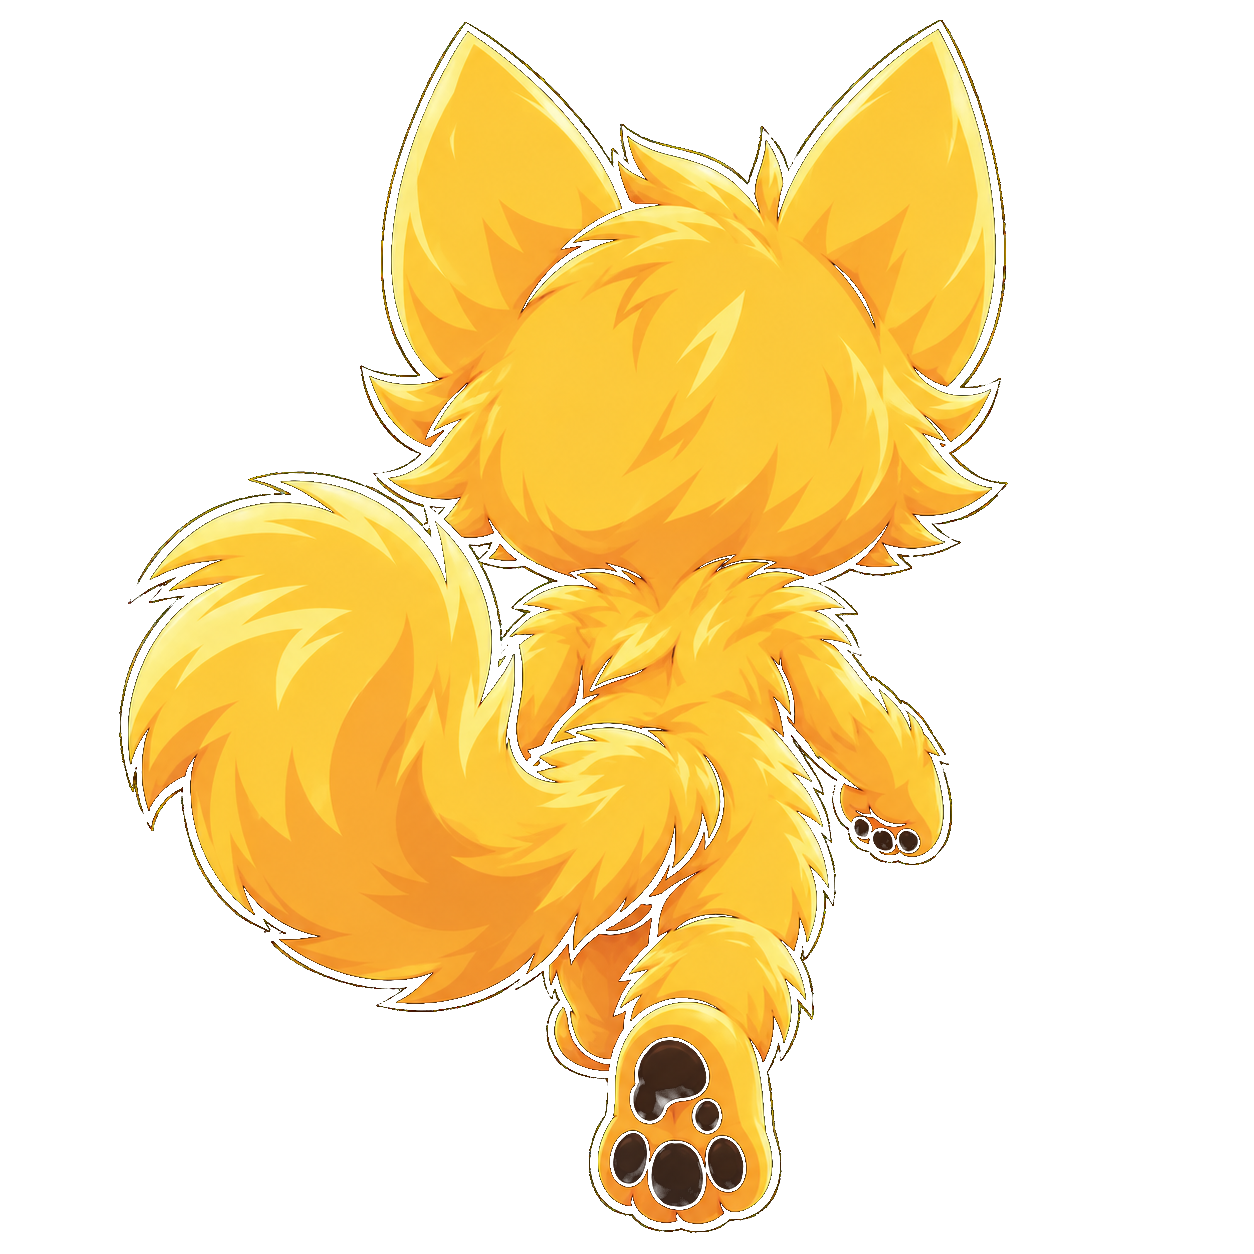
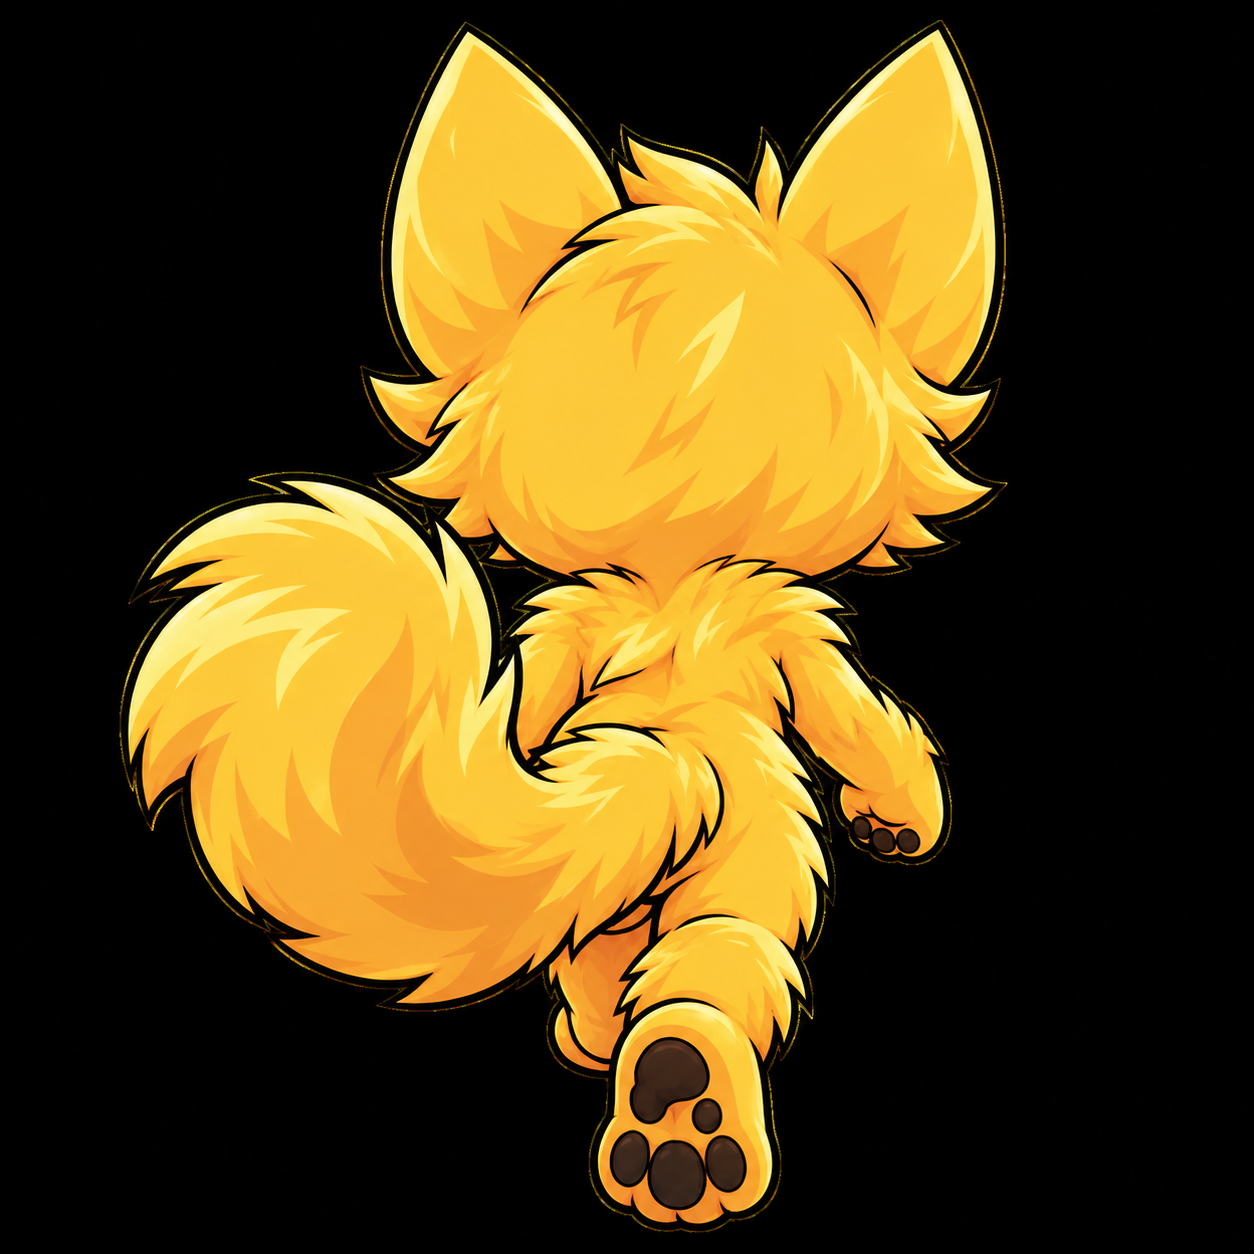
Add files via upload

diff --git a/game.js b/game.js
@@ -1,0 +1,209 @@
+const canvas=document.getElementById('c');
+const ctx=canvas.getContext('2d');
+const world=new Image(), runner=new Image();
+world.src='assets/world.png'; runner.src='assets/runner.png';
+
+let W=430,H=930,dpr=1, raf=0, last=0;
+let state='start', paused=false, t=0, speed=0.44, score=0, coins=0, combo=1;
+const player={lane:1,x:0,targetLane:1,jump:0,vy:0,slide:0,run:0};
+const objects=[];
+const lanes=[0,1,2];
+let spawnClock=0, coinClock=0;
+const keys={};
+
+function resize(){
+  const r=canvas.getBoundingClientRect(); dpr=Math.min(devicePixelRatio||1,2);
+  W=r.width; H=r.height; canvas.width=W*dpr; canvas.height=H*dpr; ctx.setTransform(dpr,0,0,dpr,0,0);
+  player.x=laneX(player.lane,1);
+}
+window.addEventListener('resize',resize);
+
+function laneX(lane,p){
+  // p=0 at horizon, p=1 at player; width expands toward bottom
+  const center=W*.5, spread=W*(.08+.38*p);
+  return center + (lane-1)*spread;
+}
+function roadY(p){ return H*(.43 + .57*p); }
+
+function reset(){
+  state='play'; paused=false; t=0; speed=.44; score=0; coins=0; combo=1;
+  objects.length=0; spawnClock=.2; coinClock=.1;
+  player.lane=1; player.targetLane=1; player.x=laneX(1,1); player.jump=0; player.vy=0; player.slide=0; player.run=0;
+  document.getElementById('start').classList.add('hidden');
+  document.getElementById('gameover').classList.add('hidden');
+}
+function end(){
+  state='over';
+  document.getElementById('finalScore').textContent=Math.floor(score);
+  document.getElementById('finalCoins').textContent=coins;
+  document.getElementById('gameover').classList.remove('hidden');
+}
+function move(dir){ if(state!=='play'||paused)return; player.targetLane=Math.max(0,Math.min(2,player.targetLane+dir)); }
+function jump(){ if(state!=='play'||paused)return; if(player.jump<=0.001 && player.slide<=0){player.vy=-1.25;player.jump=.01;} }
+function slide(){ if(state!=='play'||paused)return; if(player.jump<=0.02){player.slide=.52;} }
+
+function spawn(type,lane,p=-.03){
+  objects.push({type,lane,p,hit:false,spin:Math.random()*6.28});
+}
+function spawnPattern(){
+  const r=Math.random();
+  if(r<.30){ spawn('coin',Math.floor(Math.random()*3)); spawn('coin',Math.floor(Math.random()*3),.09); spawn('coin',Math.floor(Math.random()*3),.17); }
+  else if(r<.52){ spawn('barrier',Math.floor(Math.random()*3)); }
+  else if(r<.72){ let safe=Math.floor(Math.random()*3); for(let l=0;l<3;l++) if(l!==safe) spawn('train',l); }
+  else { let l=Math.floor(Math.random()*3); spawn('barrier',l); spawn('coin',(l+1)%3,.12); spawn('coin',(l+2)%3,.22); }
+}
+function worldToScreen(o){
+  const p=Math.max(0,Math.min(1.08,o.p));
+  return {x:laneX(o.lane,p),y:roadY(p),s:.20+.95*p};
+}
+
+function update(dt){
+  if(state!=='play'||paused)return;
+  t+=dt; speed=Math.min(.78,.44+t*.0042);
+  score+=dt*90*speed*combo;
+  player.run+=dt*12;
+  player.x += (laneX(player.targetLane,1)-player.x)*Math.min(1,dt*14);
+
+  if(player.jump>0){
+    player.jump += player.vy*dt*1.8;
+    player.vy += 2.6*dt;
+    if(player.jump<=0){player.jump=0;player.vy=0;}
+  }
+  if(player.slide>0) player.slide-=dt;
+
+  spawnClock-=dt; coinClock-=dt;
+  if(spawnClock<=0){spawnPattern();spawnClock=Math.max(.42,.82-speed*.42)*(0.75+Math.random()*.5);}
+  for(const o of objects){
+    o.p += dt*speed;
+    o.spin += dt*4;
+    const dx=Math.abs(laneX(o.lane,Math.min(o.p,1))-player.x);
+    const nearPlayer=o.p>.82 && o.p<1.06 && dx<W*.12;
+    if(!o.hit && nearPlayer){
+      o.hit=true;
+      if(o.type==='coin'){ coins++; combo=Math.min(8,combo+.15); }
+      else if(o.type==='barrier' || o.type==='train'){
+        if(player.jump>.28 || player.slide>.18){ combo=Math.min(8,combo+.25); }
+        else { combo=1; end(); return; }
+      }
+    }
+  }
+  for(let i=objects.length-1;i>=0;i--) if(objects[i].p>1.12) objects.splice(i,1);
+  document.getElementById('coins').textContent=coins;
+  document.getElementById('score').textContent=String(Math.floor(score)).padStart(6,'0');
+  document.getElementById('mult').textContent='x'+Math.max(1,Math.floor(combo));
+}
+
+function drawBackground(){
+  ctx.clearRect(0,0,W,H);
+  const iw=world.naturalWidth, ih=world.naturalHeight;
+  if(iw){
+    // Crop the generated reference scene to fit the mobile runner viewport.
+    const scale=Math.max(W/iw,H/ih);
+    const dw=iw*scale, dh=ih*scale;
+    const ox=(W-dw)/2, oy=(H-dh)/2;
+    ctx.drawImage(world,ox,oy+Math.sin(t*1.5)*2,dw,dh);
+  }else{
+    ctx.fillStyle='#58c7e0';ctx.fillRect(0,0,W,H);
+  }
+  // A subtle moving road sheen gives the impression of forward motion.
+  const g=ctx.createLinearGradient(0,H*.40,0,H);
+  g.addColorStop(0,'rgba(255,255,255,.02)');
+  g.addColorStop(1,'rgba(0,0,0,.20)');
+  ctx.fillStyle=g;ctx.fillRect(0,H*.38,W,H*.62);
+
+  // lane highlights, aligned to the perspective in the reference.
+  ctx.save();
+  ctx.globalAlpha=.22;
+  ctx.strokeStyle='#fff';ctx.lineWidth=2;
+  for(let l=0;l<4;l++){
+    ctx.beginPath();
+    ctx.moveTo(W*.5+(l-1.5)*W*.075,H*.45);
+    ctx.lineTo(W*.5+(l-1.5)*W*.52,H);
+    ctx.stroke();
+  }
+  ctx.restore();
+}
+
+function drawObject(o){
+  const q=worldToScreen(o), s=q.s;
+  ctx.save();
+  if(o.type==='coin'){
+    const r=18*s;
+    ctx.translate(q.x,q.y-28*s);
+    ctx.scale(1+Math.sin(o.spin)*.12,1);
+    ctx.fillStyle='#ffc928';ctx.strokeStyle='#fff0a0';ctx.lineWidth=3*s;
+    ctx.beginPath();ctx.arc(0,0,r,0,Math.PI*2);ctx.fill();ctx.stroke();
+    ctx.fillStyle='#b96b00';ctx.font=`${Math.max(12,18*s)}px Arial`;ctx.textAlign='center';ctx.textBaseline='middle';ctx.fillText('🐾',0,1);
+  }else if(o.type==='barrier'){
+    const w=70*s,h=44*s;
+    ctx.translate(q.x,q.y-20*s);
+    ctx.fillStyle='#d9e4ed';ctx.fillRect(-w/2,0,w,h);
+    ctx.fillStyle='#e73535';
+    for(let x=-w/2;x<w/2;x+=24*s) ctx.fillRect(x,0,12*s,h);
+    ctx.fillStyle='#24394f';ctx.fillRect(-w/2,-7*s,w,8*s);
+    ctx.fillRect(-w/2, h, 8*s,13*s);ctx.fillRect(w/2-8*s,h,8*s,13*s);
+  }else{
+    const w=88*s,h=115*s;
+    ctx.translate(q.x,q.y-h*.55);
+    ctx.fillStyle=o.lane===0?'#1b86df':o.lane===1?'#e33d46':'#34a2db';
+    ctx.fillRect(-w/2,0,w,h);
+    ctx.fillStyle='#9ddfff';ctx.fillRect(-w*.34,h*.14,w*.68,h*.28);
+    ctx.fillStyle='#f8d24a';ctx.beginPath();ctx.arc(-w*.30,h*.77,8*s,0,Math.PI*2);ctx.fill();
+    ctx.beginPath();ctx.arc(w*.30,h*.77,8*s,0,Math.PI*2);ctx.fill();
+  }
+  ctx.restore();
+}
+
+function drawPlayer(){
+  if(!runner.complete)return;
+  const bob=Math.sin(player.run)*5;
+  const airborne=player.jump*85;
+  const slideScale=player.slide>0?.68:1;
+  const runLean=Math.sin(player.run)*.035;
+  const w=Math.min(W*.31,145)*slideScale;
+  const h=w*(runner.naturalHeight/runner.naturalWidth);
+  ctx.save();
+  ctx.translate(player.x,H*.84-airborne+bob);
+  ctx.rotate(runLean);
+  ctx.globalAlpha=.22;
+  ctx.fillStyle='#000';ctx.beginPath();ctx.ellipse(0,8,w*.32,12,0,0,Math.PI*2);ctx.fill();
+  ctx.globalAlpha=1;
+  // Small squash/tilt makes the static illustration read as a running sprite.
+  ctx.scale(1+Math.sin(player.run)*.025,1-Math.sin(player.run)*.025);
+  ctx.drawImage(runner,-w/2,-h*.78,w,h);
+  ctx.restore();
+}
+
+function draw(){
+  drawBackground();
+  const sorted=[...objects].sort((a,b)=>a.p-b.p);
+  for(const o of sorted) drawObject(o);
+  drawPlayer();
+}
+
+function loop(now){
+  const dt=Math.min(.032,(now-last)/1000||.016); last=now;
+  update(dt); draw(); raf=requestAnimationFrame(loop);
+}
+function action(a){if(a==='left')move(-1);if(a==='right')move(1);if(a==='jump')jump();if(a==='slide')slide();}
+window.addEventListener('keydown',e=>{
+  if(['ArrowLeft','ArrowRight','ArrowUp','ArrowDown',' '].includes(e.key))e.preventDefault();
+  if(e.key==='ArrowLeft'||e.key==='a')action('left');
+  if(e.key==='ArrowRight'||e.key==='d')action('right');
+  if(e.key==='ArrowUp'||e.key==='w'||e.key===' ')action('jump');
+  if(e.key==='ArrowDown'||e.key==='s')action('slide');
+  if(e.key==='p')paused=!paused;
+});
+let sx=0,sy=0;
+canvas.addEventListener('touchstart',e=>{const p=e.touches[0];sx=p.clientX;sy=p.clientY},{passive:true});
+canvas.addEventListener('touchend',e=>{
+  const p=e.changedTouches[0],dx=p.clientX-sx,dy=p.clientY-sy;
+  if(Math.max(Math.abs(dx),Math.abs(dy))<24)return;
+  if(Math.abs(dx)>Math.abs(dy))action(dx>0?'right':'left'); else action(dy<0?'jump':'slide');
+},{passive:true});
+document.querySelectorAll('#touch button').forEach(b=>b.addEventListener('click',()=>action(b.dataset.act)));
+document.getElementById('play').onclick=reset;
+document.getElementById('again').onclick=reset;
+document.getElementById('pause').onclick=()=>{if(state==='play')paused=!paused};
+resize();
+requestAnimationFrame(loop);

diff --git a/style.css b/style.css
@@ -1,1 +1,23 @@
-*{box-sizing:border-box}html,body{margin:0;width:100%;height:100%;overflow:hidden;background:#070615;color:#fff;font-family:Inter,system-ui,Arial}button{font:inherit;border:0;color:#fff;cursor:pointer}#game{position:relative;width:100%;height:100%;overflow:hidden;background:#11102c}.world{position:absolute;inset:-3%;background:url('assets/city.jpg') center/cover no-repeat;filter:saturate(1.08);transform:scale(1.04);transition:transform .2s}.world.run{animation:worldmove .7s linear infinite}@keyframes worldmove{0%{transform:scale(1.04) translateY(0)}50%{transform:scale(1.055) translateY(7px)}100%{transform:scale(1.04) translateY(0)}}.world:after{content:"";position:absolute;inset:0;background:linear-gradient(180deg,#06051b18 20%,#050510b5 100%)}.road{position:absolute;left:0;right:0;bottom:-5%;height:62%;background:linear-gradient(transparent 0,#15132699 15%,#0b0b15ee 100%);clip-path:polygon(45% 0,55% 0,100% 100%,0 100%);opacity:.92}.road:before,.road:after{content:"";position:absolute;top:0;bottom:0;width:3px;background:linear-gradient(transparent,#ffd66a99)}.road:before{left:34%}.road:after{right:34%}.speed{position:absolute;inset:0;pointer-events:none;opacity:0;background:repeating-linear-gradient(105deg,transparent 0 70px,#fff3 72px 74px,transparent 76px 170px);animation:streak .35s linear infinite}.speed.on{opacity:.2}@keyframes streak{to{transform:translateY(100px)}}.hud{position:absolute;z-index:10;top:15px;left:15px;right:15px;display:flex;gap:8px;align-items:center}.hud>div,.hud button{background:#080818c9;border:1px solid #ffd66a44;border-radius:14px;padding:8px 12px;backdrop-filter:blur(8px)}.hud button{width:48px;height:48px;font-size:21px;color:#ffd66a}.hud small{display:block;font-size:8px;color:#aaa6bb;letter-spacing:1px}.hud b{font-size:17px}.hud>div:last-child{margin-left:auto}.hud>div:nth-child(4){margin-left:0;color:#ffd66a}.hud>div:nth-child(4) b{color:#ffd66a}.overlay{position:absolute;z-index:20;inset:0;display:flex;align-items:center;justify-content:center;text-align:center;background:#050511a8;backdrop-filter:blur(4px)}.hide{display:none}.logo{font-size:clamp(40px,8vw,78px);font-weight:1000;font-style:italic;letter-spacing:-4px;color:#ffd566;text-shadow:0 6px 35px #ffad2c55}.logo span{display:block;font-size:19px;letter-spacing:7px;color:white;margin-top:-8px}.overlay>p{color:#ffe07b;letter-spacing:4px;font-size:11px}.overlay>small{display:block;color:#aaa7ba;margin-top:12px}.gold,.dark{display:block;width:250px;padding:15px;margin:10px auto;border-radius:14px;font-weight:900;letter-spacing:1px}.gold{background:linear-gradient(#ffe58e,#dc9b2e);color:#21161c;box-shadow:0 12px 30px #e2a42f33}.dark{background:#0c0b18dd;border:1px solid #ffd66a55}.card{width:min(480px,90vw);padding:28px;border-radius:24px;background:#0b0b18ee;border:1px solid #ffd66a55;box-shadow:0 30px 80px #000b}.card h1{color:#ffd66a;font-size:42px}.results{display:flex;gap:10px;justify-content:center}.results span{background:#ffffff08;padding:12px 18px;border-radius:12px;font-size:9px;color:#aaa7b8}.results b{display:block;color:#ffd66a;font-size:17px;margin-top:3px}.x{position:absolute;right:18px;top:12px;background:none;font-size:30px}.chars{position:relative}.grid{display:grid;grid-template-columns:repeat(4,1fr);gap:9px;margin:20px 0}.grid button{background:#111021;border:1px solid #fff1;border-radius:13px;padding:4px}.grid button.sel{border-color:#ffd66a;box-shadow:0 0 20px #ffd66a33}.grid img{width:100%;display:block;aspect-ratio:1;object-fit:contain}.touch{position:absolute;z-index:15;left:15px;right:15px;bottom:14px;display:flex;justify-content:space-between;pointer-events:none}.touch button{pointer-events:auto;width:56px;height:56px;border-radius:18px;background:#080818aa;border:1px solid #ffd66a55;font-size:34px;color:#ffe38b}.touch button:nth-child(2){margin-left:auto;margin-right:8px}.touch button:nth-child(3){margin-right:8px}.touch button:nth-child(1){margin-right:auto}.touch button:nth-child(4){margin-left:0}#player{position:absolute;z-index:12;left:50%;bottom:7%;width:min(260px,27vw);min-width:145px;transform:translateX(-50%);transition:left .13s cubic-bezier(.2,.8,.2,1)}#player img{display:block;width:100%;animation:run .32s steps(2) infinite;filter:drop-shadow(0 16px 18px #0009)}#player.hit{animation:hit .3s linear}@keyframes run{0%{transform:translateY(0)}50%{transform:translateY(-10px)}100%{transform:translateY(0)}}@keyframes hit{25%{transform:translateX(-12px)}50%{transform:translateX(12px)}75%{transform:translateX(-7px)}}#player.jump{animation:jump .75s ease-out}#player.slide img{transform:scaleY(.62) translateY(30px);animation:none}@keyframes jump{0%,100%{bottom:7%}45%{bottom:25%}}.shadow{position:absolute;left:20%;right:20%;bottom:2px;height:14px;background:#0009;border-radius:50%;filter:blur(7px);z-index:-1}.obj{position:absolute;z-index:11;transform:translate(-50%,-50%);will-change:top}.star{width:31px;height:31px;border-radius:50%;background:radial-gradient(circle,#fff6b0,#ffc238 45%,#ff7a18);box-shadow:0 0 25px #ffd24d}.star:after{content:'✦';display:grid;place-items:center;width:100%;height:100%;color:white;font-size:18px}.barrier{width:78px;height:46px;background:linear-gradient(#d74c43,#68202d);border:2px solid #ffd66a;border-radius:7px;box-shadow:0 10px 22px #0008}.barrier:after{content:'CATSHU';display:grid;place-items:center;width:100%;height:100%;font-size:9px;font-weight:900;color:#ffd66a}.gate{width:92px;height:72px;background:#25182f;border:3px solid #c97840;box-shadow:0 0 22px #c36a4b66}.gate:after{content:'SLIDE';display:grid;place-items:center;width:100%;height:100%;font-size:10px;color:#ffd66a;font-weight:900}@media(max-width:700px){.hud{top:8px;left:8px;right:8px}.hud>div{padding:6px 8px}.hud b{font-size:13px}.hud button{width:40px;height:40px}.hud>div:nth-child(4){display:none}#player{width:42vw}.touch button{width:52px;height:52px}.grid{grid-template-columns:repeat(4,1fr)}}
+*{box-sizing:border-box}
+html,body{margin:0;width:100%;height:100%;background:#071321;overflow:hidden;font-family:Arial,Helvetica,sans-serif}
+body{display:flex;justify-content:center;align-items:center}
+#game{position:relative;width:min(100vw,430px);height:100vh;max-height:930px;overflow:hidden;background:#5cc5df}
+canvas{position:absolute;inset:0;width:100%;height:100%;display:block}
+.hud{position:absolute;inset:0 0 auto 0;height:115px;pointer-events:none}
+.round{pointer-events:auto;position:absolute;left:16px;top:16px;width:54px;height:54px;border:3px solid #123a5d;border-radius:14px;background:#159fe8;color:white;font-size:25px;font-weight:900;box-shadow:0 5px 0 #0a5a8a}
+.coinBox{position:absolute;left:50%;top:16px;transform:translateX(-50%);height:52px;min-width:178px;padding:7px 18px;border:3px solid #123a5d;border-radius:16px;background:linear-gradient(#168fe0,#0756ad);color:#fff;display:flex;gap:9px;align-items:center;justify-content:center;font-size:25px;font-weight:900;box-shadow:0 5px 0 #0a3155}
+.coinBox .paw{font-size:27px}
+.score{position:absolute;right:12px;top:14px;color:white;text-align:right;text-shadow:0 3px 3px #123}
+.score small{display:block;font-size:16px;font-weight:900}
+.score b{font-size:28px;display:block}
+.score span{display:inline-block;margin-top:2px;padding:3px 12px;border-radius:8px;background:#132c49;font-size:19px;font-weight:900}
+.overlay{position:absolute;inset:0;display:grid;place-items:center;background:rgba(2,12,23,.22);backdrop-filter:blur(2px)}
+.overlay.hidden{display:none}
+.card{width:86%;padding:30px 24px;border-radius:24px;text-align:center;color:#fff;background:linear-gradient(180deg,rgba(7,30,52,.94),rgba(5,15,29,.96));border:2px solid #43c8ff;box-shadow:0 18px 60px rgba(0,0,0,.45)}
+.brand{letter-spacing:7px;color:#ffd85a;font-weight:1000;font-size:19px}
+h1{margin:10px 0 12px;font-size:32px;line-height:1}
+.card p{color:#cfe6f5;line-height:1.5}
+.card button{margin-top:12px;border:0;border-radius:13px;padding:15px 38px;font-size:19px;font-weight:1000;color:#07213a;background:linear-gradient(#ffd85a,#ffad22);box-shadow:0 5px 0 #a9680c}
+#touch{position:absolute;left:0;right:0;bottom:14px;display:flex;justify-content:center;gap:8px;pointer-events:none}
+#touch button{pointer-events:auto;width:58px;height:48px;border:1px solid rgba(255,255,255,.35);border-radius:13px;background:rgba(4,23,41,.48);color:#fff;font-size:21px;font-weight:900;backdrop-filter:blur(5px)}
+@media (min-width:700px){#touch{display:none}}

diff --git a/index.html b/index.html
@@ -3,60 +3,44 @@
 <head>
 <meta charset="utf-8">
 <meta name="viewport" content="width=device-width,initial-scale=1,maximum-scale=1,user-scalable=no">
-<title>CatShu Runner — Playable</title>
+<title>CatShu Runner — Reference Demo</title>
 <link rel="stylesheet" href="style.css">
 </head>
 <body>
 <div id="game">
-  <div class="world"></div>
-  <div class="road"></div>
-  <div class="speed"></div>
+  <canvas id="c"></canvas>
+
   <div class="hud">
-    <button id="pause">Ⅱ</button>
-    <div><small>SCORE</small><b id="score">0</b></div>
-    <div><small>DISTANCE</small><b id="distance">0m</b></div>
-    <div><small>COMBO</small><b id="combo">x1</b></div>
+    <button id="pause" class="round">Ⅱ</button>
+    <div class="coinBox"><span class="paw">🐾</span><b id="coins">0</b><span>/20</span></div>
+    <div class="score"><small>SCORE</small><b id="score">000000</b><span id="mult">x1</span></div>
   </div>
 
-  <div id="objects"></div>
-
-  <div id="player">
-    <div class="shadow"></div>
-    <img id="runner" src="assets/run_0.png">
-  </div>
-
-  <div class="touch">
-    <button data-a="left">‹</button>
-    <button data-a="jump">↑</button>
-    <button data-a="slide">↓</button>
-    <button data-a="right">›</button>
-  </div>
-
-  <section id="start" class="overlay">
-    <div class="logo">♛ CATSHU <span>RUNNER</span></div>
-    <p>RUN THROUGH THE CITY</p>
-    <button class="gold" id="startBtn">START RUN</button>
-    <button class="dark" id="charsBtn">CHARACTER</button>
-    <small>← → lane &nbsp; • &nbsp; ↑ jump &nbsp; • &nbsp; ↓ slide</small>
-  </section>
-
-  <section id="pause" class="overlay hide">
-    <div class="card"><h1>PAUSED</h1><button class="gold" id="resume">RESUME</button><button class="dark" id="restart">RESTART</button></div>
-  </section>
-
-  <section id="over" class="overlay hide">
-    <div class="card"><p>RUN COMPLETE</p><h1 id="finalScore">0</h1>
-      <div class="results"><span>DISTANCE <b id="finalDistance">0m</b></span><span>STARS <b id="finalStars">0</b></span></div>
-      <button class="gold" id="again">RUN AGAIN</button><button class="dark" id="home">HOME</button>
+  <div id="start" class="overlay">
+    <div class="card">
+      <div class="brand">CATSHU</div>
+      <h1>RUN THE KINGDOM</h1>
+      <p>Swipe / Arrow keys to change lanes.<br>Swipe up / ↑ to jump. Swipe down / ↓ to slide.</p>
+      <button id="play">PLAY</button>
     </div>
-  </section>
+  </div>
 
-  <section id="characters" class="overlay hide">
-    <div class="card chars"><button class="x" id="closeChars">×</button><h2>CATSHU</h2>
-      <div class="grid" id="grid"></div><button class="gold" id="useChar">USE CHARACTER</button>
+  <div id="gameover" class="overlay hidden">
+    <div class="card">
+      <div class="brand">CATSHU</div>
+      <h1>RUN ENDED</h1>
+      <p>Score <b id="finalScore">0</b> · Coins <b id="finalCoins">0</b></p>
+      <button id="again">RUN AGAIN</button>
     </div>
-  </section>
+  </div>
+
+  <div id="touch">
+    <button data-act="left">◀</button>
+    <button data-act="jump">▲</button>
+    <button data-act="slide">▼</button>
+    <button data-act="right">▶</button>
+  </div>
 </div>
-<script src="main.js"></script>
+<script src="game.js"></script>
 </body>
 </html>

diff --git a/README.md b/README.md
@@ -1,4 +1,21 @@
-# CatShu Runner PLAYABLE
-This is a playable browser demo with a moving runner animation, three lanes, jump, slide, obstacles, collectibles, scoring, touch controls and a moving city scene.
+# CatShu Runner — Reference Demo
 
-Run by opening index.html or upload the folder contents to GitHub Pages.
+This is the implementation direction for the screenshot you supplied.
+
+## What is playable
+- 3 lanes
+- left/right lane switching
+- jump and slide
+- moving coins
+- barriers and trains
+- collision / game over
+- score, combo and coin HUD
+- keyboard + touch controls
+- rear-view CatShu runner
+- generated CatShu world used as the visual reference
+
+## Run
+Open `index.html` directly in a browser, or upload the folder to GitHub Pages.
+
+## Important
+This is a real gameplay prototype, not a screenshot/video. The next production pass should replace the temporary generated runner sprite with a proper CatShu back-view sprite sheet and replace the simple collision objects with layered 3D assets.
